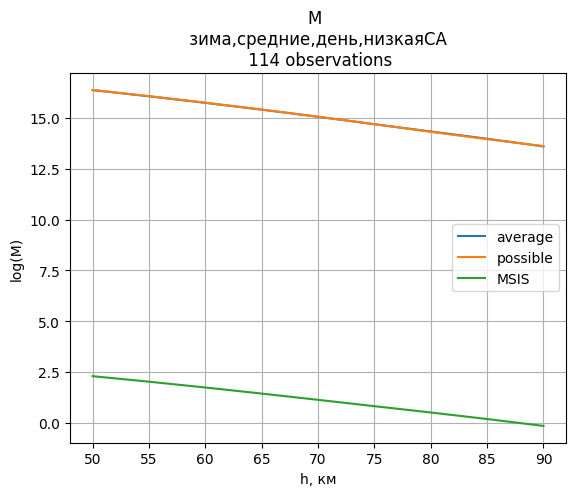
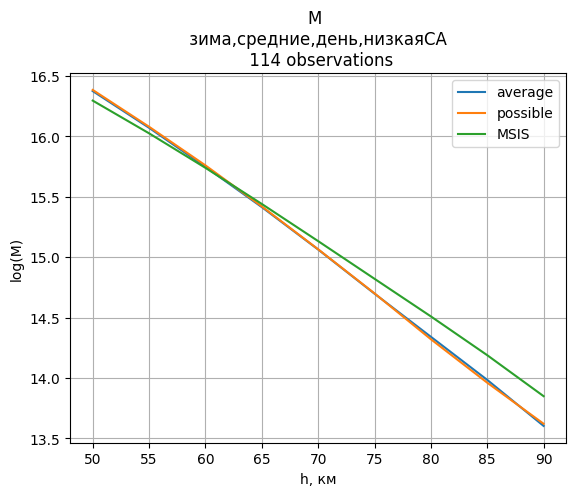
теория

diff --git a/python_code/kde_builder.py b/python_code/kde_builder.py
@@ -147,7 +147,7 @@ class KdeBuilder:
         msis_df = pd.read_csv(datafile,
                               names=['h', 'N2', 'O2', 'T'],
                               dtype={'h': float, 'N2': float, 'O2': float, 'T': float})
-        msis_df['M'] = np.log10((msis_df['N2'] + msis_df['O2']) * 10 ** (-14))
+        msis_df['M'] = np.log10((msis_df['N2'] + msis_df['O2']))
         obs_dataset = self.__generate_obs('h')
         logging.info(obs_dataset)
         counts_dataset = ps.sqldf("select y, value, cast(count(*) as float) as cnt from obs_dataset "

diff --git a/README.md b/README.md
@@ -414,7 +414,7 @@ _При высокой солнечной активности разброс з
 Заметим, что модель температуры MSIS отличается от рассчитанной на значениях со спутника не только количественно, 
 но и качественно.
 
-Для концентрации модель совпадает с рассчитанной качественно, однако, количественно отличается на 13 порядков.
+Для концентрации модель совпадает с рассчитанной в пределах одного порядка (десятичные логарифмы отличаются менее, чем на 0.3).
 ## Выводы <a name="conclusion"></a>
 1.  
     - Распределение **температуры** нейтралов зависит от зенитного угла (разброс значений до 10%), а также от
@@ -429,6 +429,7 @@ _При высокой солнечной активности разброс з
     - Средние значения **концентрации** нейтралов близки к наиболее вероятным (в средних широтах различия десятичных 
      логарифмов менее 0.1, а в полярных и экваториальных широтах графики логарифмов накладываются друг на друга), 
      следовательно, переход к вероятностным характеристикам не критичен.
-3.  Рассчитанные M на данных со спутника отличаются от модели MSIS на 13 порядков, а модель T отличается от данных со спутника
+3.  Рассчитанные M на данных со спутника несущественно отличаются от модели MSIS в пределах одного порядка (
+ десятичные логарифмы расходятся менее, чем на 0.3), а модель T отличается от данных со спутника
  не только количественно, но и качественно, из чего можно сделать вывод, что модель MSIS 
  неприменима для решения задач моделирования ионосферных слоев. 
